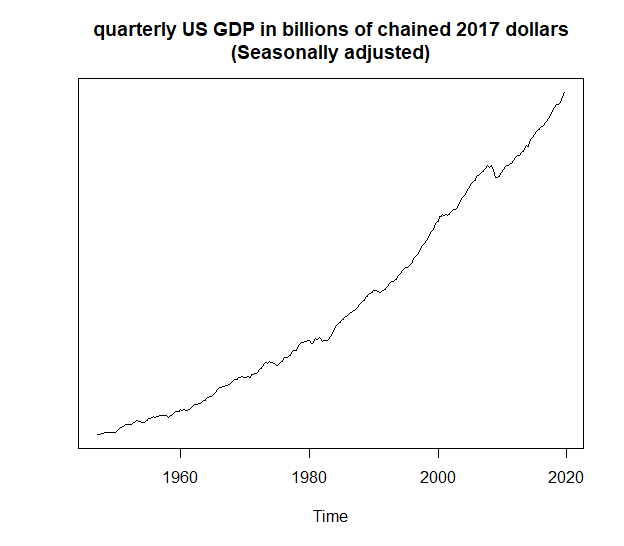
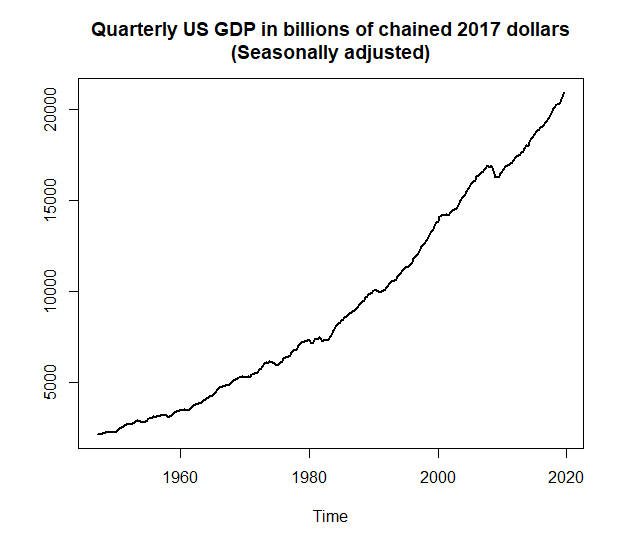
Update Figures

diff --git a/README.md b/README.md
@@ -112,7 +112,7 @@ library(corbouli)
 data(USgdp)
 
 plot(USgdp, main = "Quarterly US GDP in billions of chained 2017 dollars
-(Seasonally adjusted)", ylab = "", yaxt="n")
+(Seasonally adjusted)", ylab = "", lwd  = 2)
 ```
 
 <p align="center">
@@ -127,7 +127,10 @@ plot(USgdp, main = "Quarterly US GDP in billions of chained 2017 dollars
 co <- corbae_ouliaris(USgdp, low_freq = 0.0625, high_freq = 0.3333)
 
 # Plot cycles of filtered series
-plot(co, main = "Corbae-Ouliaris FD Filter cycles")
+plot(co,
+     main = "Corbae-Ouliaris FD Filter cycles for USgdp",
+     ylab = "",
+     lwd  = 2)
 ```
 
 <p align="center">
@@ -144,7 +147,7 @@ USgdp_rmco <- USgdp - co
 
 # Plot Original vs Decycled data
 plot(USgdp, main = "Quarterly US GDP in billions of chained 2017 dollars
-(Seasonally adjusted)", col = "black", lwd = 2, ylab = "", yaxt="n")
+(Seasonally adjusted)", col = "black", lwd = 2, ylab = "")
 lines(USgdp_rmco, col = adjustcolor("red", alpha.f = 0.7), lwd = 2)
 legend(x = "topleft", lwd = 2, text.font = 2,
        col= adjustcolor(c("black","red"), alpha.f = 0.7),
@@ -166,7 +169,7 @@ output gap series than business cycle one will have higher volatility (Figure
 og <- corbae_ouliaris(USgdp, low_freq = 0.0625, high_freq = 1)
 
 # Plot Business cycle vs Output gap
-plot(co, main = "Business cycle vs Output gap",
+plot(co, main = "Business cycle vs Output gap for USgdp",
      col = adjustcolor("blue", alpha.f = 0.7), lwd = 2)
 lines(og, col = adjustcolor("orange", alpha.f = 0.7), lwd = 2)
 legend(x = "bottomleft", lwd = 2, text.font = 2,
